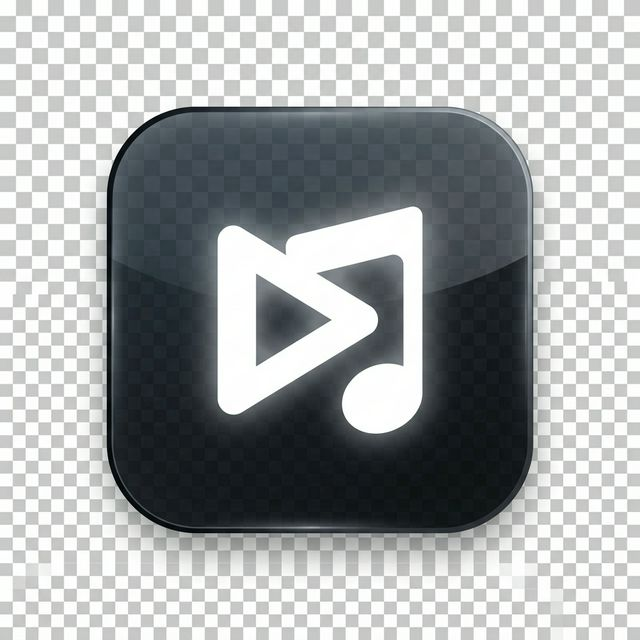
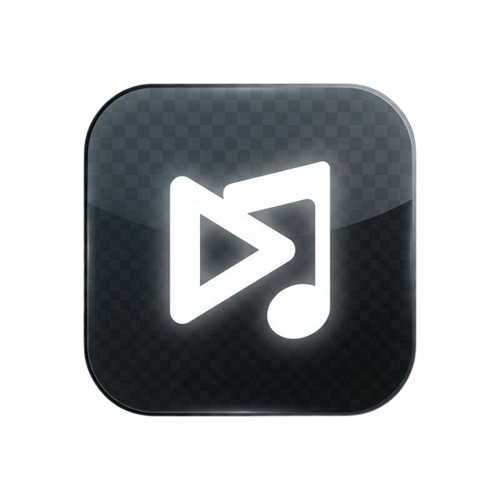
feat: initial public release
Spotify Float — floating mini-player for Spotify Web (MV3)

- Shadow DOM floating player: Full / Compact / Mini modes
- Draggable, resizable, position persisted via chrome.storage
- Document Picture-in-Picture with always-on-top OS window
- Drag-to-seek progress bar with live scrub feedback
- Glassmorphism UI (backdrop-filter blur, translucent bg)
- Resilient selector system with data-testid + CSS fallbacks
- Keyboard shortcuts: Space, Ctrl+Right, Ctrl+Left
- Real PNG icons generated with zero npm dependencies
- No Spotify API, no Premium required

diff --git a/README.md b/README.md
@@ -14,7 +14,7 @@ No Spotify API. No Premium required. Just open the tab and play.
 
 <br/>
 
-![Demo Screenshot](https://i.imgur.com/placeholder.png)
+![Demo Screenshot](https://i.ibb.co/4nPJcxVm/Screenshot-2026-03-28-232255.png)
 <!-- Replace the above with a real screenshot once uploaded -->
 
 </div>
